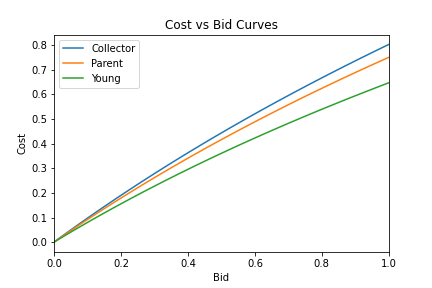
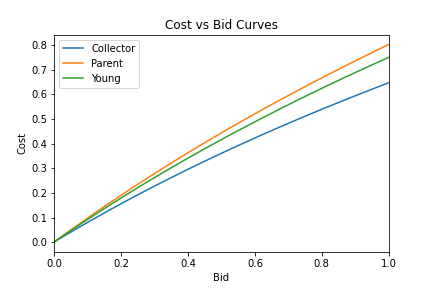
Fix order in cost

diff --git a/Environments/Users.py b/Environments/Users.py
@@ -197,7 +197,7 @@ class UserC1(User):
         return (1 - np.exp(- 8.0 * bid - 0.5 * bid**2))  * 70
 
     def cost_vs_bid(self, bid):
-        return 1.9*np.log(1+bid/1.9) # S
+        return 1.4*np.log(1+bid/1.7)
         #return 100 * (1-np.exp(-2*bid+bid**3))
 
     
@@ -215,7 +215,7 @@ class UserC2(User):
         return (1 - np.exp(-1.5 * bid + -1 * bid**2)) * 100
 
     def cost_vs_bid(self, bid):
-        return 1.7*np.log(1+bid/1.8)
+        return 1.9*np.log(1+bid/1.9) 
     
 
 class UserC3(User):
@@ -233,5 +233,5 @@ class UserC3(User):
         return (1 - np.exp(-1 * bid -0.9 * bid**2)) * 90
 
     def cost_vs_bid(self, bid):
-        return 1.4*np.log(1+bid/1.7)
+        return 1.7*np.log(1+bid/1.8)
     

diff --git a/Environments/Environment_S1.py b/Environments/Environment_S1.py
@@ -16,7 +16,7 @@ class Environment:
     def round(self, pulled_arm):
         # Observation are communicated at the end of the day for all the customers
         reward = np.random.binomial(self.n_clicks, self.user.probabilities[pulled_arm])/self.n_clicks
-        return reward
+        return reward 
     
     def max_reward(self):
         # Return the maximum reward given the selected bid
